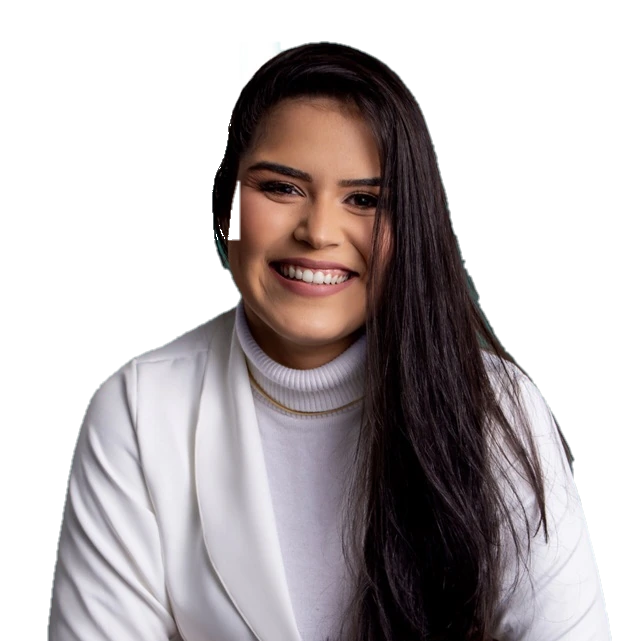
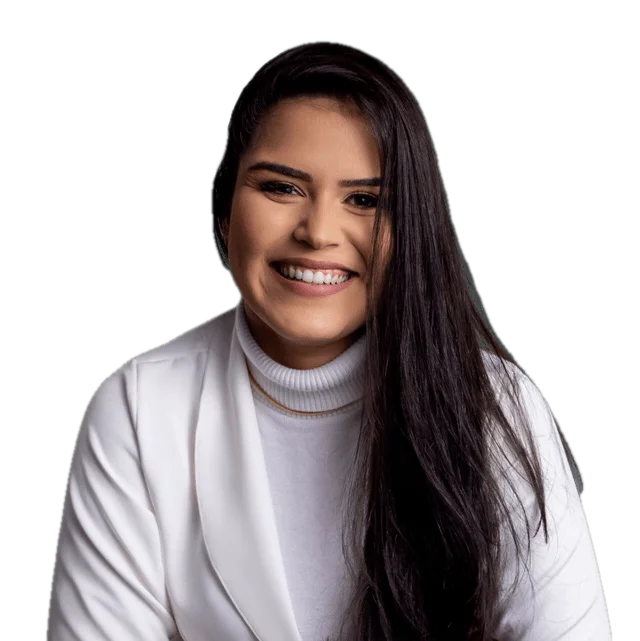
fix(site): recorte limpo da designer, sem fragmentos

diff --git a/index.html b/index.html
@@ -17,14 +17,14 @@
   <meta property="og:url" content="https://boaideia.pages.dev/">
   <meta property="og:title" content="Renatha Cavalcanti | Boaideia • Identidade Visual">
   <meta property="og:description" content="Identidades inspiradas na beleza da criação. Marcas, casamentos, maternidade, celebrações e design de posts.">
-  <meta property="og:image" content="https://boaideia.pages.dev/assets/images/renatha.webp?v=10">
+  <meta property="og:image" content="https://boaideia.pages.dev/assets/images/renatha.webp?v=11">
   <meta property="og:locale" content="pt_BR">
 
   <!-- Twitter -->
   <meta name="twitter:card" content="summary_large_image">
   <meta name="twitter:title" content="Renatha Cavalcanti | Boaideia • Identidade Visual">
   <meta name="twitter:description" content="Identidades inspiradas na beleza da criação. Marcas, casamentos, maternidade, celebrações e design de posts.">
-  <meta name="twitter:image" content="https://boaideia.pages.dev/assets/images/renatha.webp?v=10">
+  <meta name="twitter:image" content="https://boaideia.pages.dev/assets/images/renatha.webp?v=11">
 
   <!-- Theme Color -->
   <meta name="theme-color" content="#051511">
@@ -38,10 +38,10 @@
   <link href="https://fonts.googleapis.com/css2?family=Cormorant+Garamond:ital,wght@0,400;0,500;0,600;0,700;1,400;1,600&family=Plus+Jakarta+Sans:wght@300;400;500;600;700;800&display=swap" rel="stylesheet">
 
   <!-- Preload da foto da designer -->
-  <link rel="preload" href="assets/images/renatha.webp?v=10" as="image" type="image/webp">
+  <link rel="preload" href="assets/images/renatha.webp?v=11" as="image" type="image/webp">
 
-  <!-- Estilos com Cache-Busting ?v=9 -->
-  <link rel="stylesheet" href="styles.css?v=10">
+  <!-- Estilos com Cache-Busting ?v=11 -->
+  <link rel="stylesheet" href="styles.css?v=11">
 
   <!-- Schema JSON-LD -->
   <script type="application/ld+json">
@@ -128,7 +128,7 @@
 
         <!-- Foto da Designer: Recorte Perfeito e Limpo -->
         <div class="hero-visual-stage gsap-fade">
-          <img src="assets/images/renatha.webp?v=10" 
+          <img src="assets/images/renatha.webp?v=11" 
                alt="Renatha Cavalcanti" 
                width="640" 
                height="641" 
@@ -357,7 +357,7 @@
         <!-- Bloco Sobre a Designer -->
         <div class="about-artist-showcase gsap-fade" id="sobre">
           <div class="about-photo-wrapper">
-            <img src="assets/images/renatha.webp?v=10" 
+            <img src="assets/images/renatha.webp?v=11" 
                  alt="Renatha Cavalcanti" 
                  width="640" 
                  height="641" 
@@ -500,7 +500,7 @@
   <script src="https://cdn.jsdelivr.net/npm/lenis@1.1.14/dist/lenis.min.js" defer></script>
   <script src="https://cdn.jsdelivr.net/npm/gsap@3.12.5/dist/gsap.min.js" defer></script>
   <script src="https://cdn.jsdelivr.net/npm/gsap@3.12.5/dist/ScrollTrigger.min.js" defer></script>
-  <!-- Script Principal com Cache-Busting ?v=9 -->
-  <script src="script.js?v=10" defer></script>
+  <!-- Script Principal com Cache-Busting ?v=11 -->
+  <script src="script.js?v=11" defer></script>
 </body>
 </html>

diff --git a/styles.css b/styles.css
@@ -1,8 +1,8 @@
-/* ==========================================================================
+/* ==========================================================================
    BOAIDEIA — RENATHA CAVALCANTI | ESTÚDIO DE IDENTIDADE VISUAL
    Design System de Alto Nível: Tema Claro + Escuro Mesclado (Site 1 só)
    Botões Canônicos Premium + Áreas Neon GSAP Parallax + Grid Compacto
-   Versão 10: Recorte Perfeito Sem Fragmentos Brancos, Contorno Exato do Cabelo e Neon GSAP Scrub
+   Versão 11: Recorte Limpo de IA da Designer Sem Fragmentos, Bordas Suaves e Contorno Natural
    ========================================================================== */
 
 /* 1. TOKENS GLOBAIS DE COR & TIPOGRAFIA */

diff --git a/script.js b/script.js
@@ -1,6 +1,6 @@
 /**
  * BOAIDEIA — RENATHA CAVALCANTI
- * Script Principal v9: Lenis + GSAP 3.12.5 + ScrollTrigger
+ * Script Principal v11: Lenis + GSAP 3.12.5 + ScrollTrigger
  * GSAP Neon Scrub Tipográfico Contínuo (Acende e Apaga no Scroll Real) + Parallax Depth
  */
 
